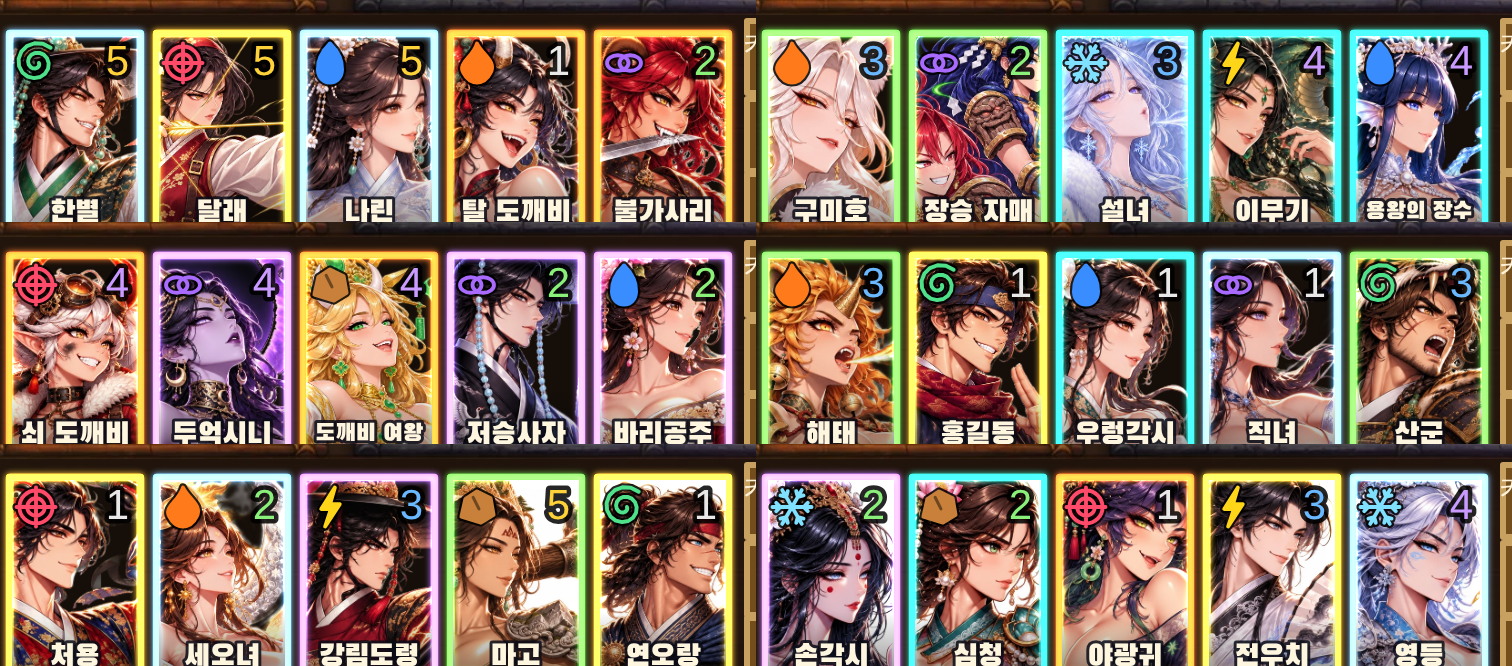
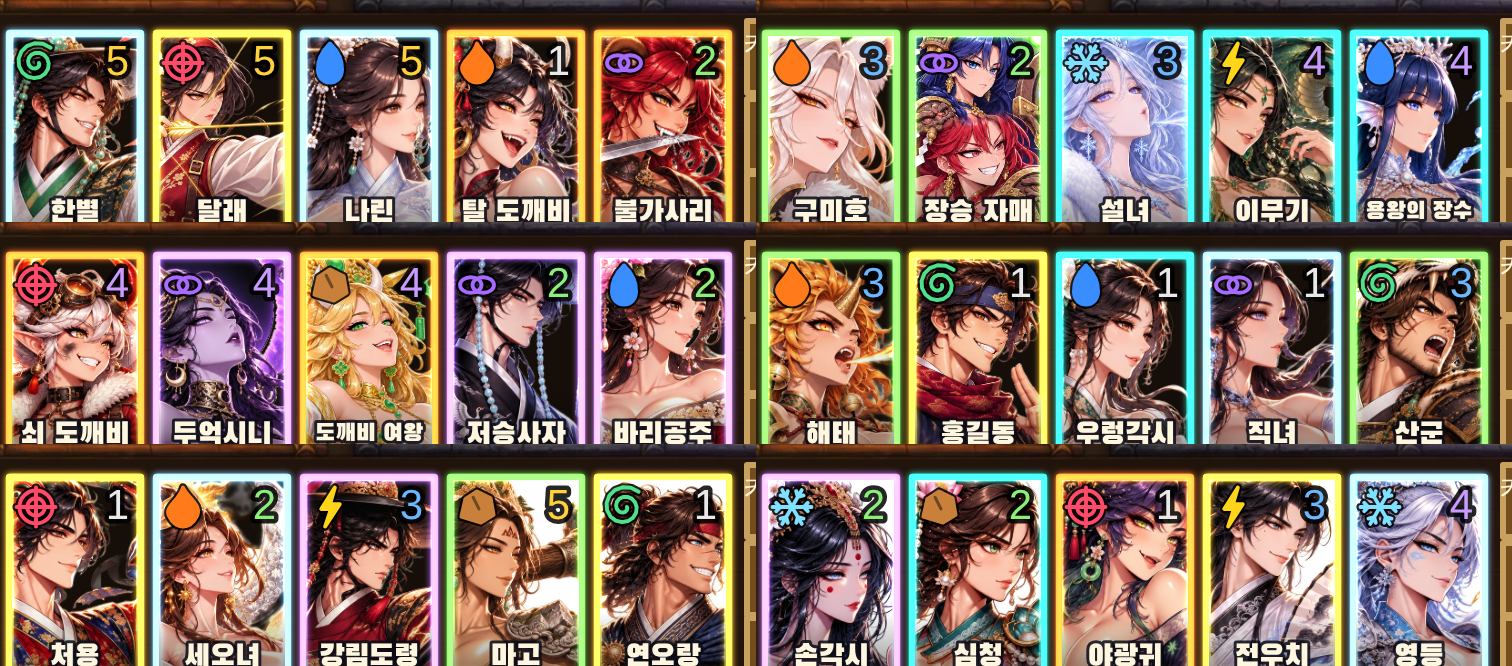
기획 29 보충(각성 탄 cNNa) · 새 7명 개별 각성 · 기획 26 21절 같은 속성 연계 · 장승 자매 카드 그림 · 확인 스크린샷
Claude-Session: https://claude.ai/code/session_01X3WCR5Skc58i6ujNZho15h

Changed region(s): [[0.5906, 0.03, 0.7149, 0.3303]]

diff --git a/game/geumeum/README.md b/game/geumeum/README.md
@@ -491,3 +491,6 @@
 - 얻는 곳(안): 마고 탑 40층 · 연오랑 세오녀 인연 5단계 · 손각시 도감 60종 · 심청 어려움 2-9 · 야광귀 섣달그믐 날 · 전우치 오락실 6판 · 영등 영등날.
 - 달밤 진법: 30명, 진영 6곳 모두 5명, 비용표 기획 28 3-3. **5명 효과**: 그 진영 캐릭터 공격·체력 +25%(효과 1.5배 대신) + 진판이 진영 색으로 물듦(저승은 되살림 +1, 산은 느림 7.5초). 특별 짝 3개 추가: 연오랑 세오녀(밤 시작 적 모두 표식) · 도술 맞수(홍길동·전우치 스킬 기운 25% 빨리) · 그믐밤 손님(야광귀·탈·쇠 도깨비, 처치 엽전 +1 밤당 3). 카드 얼굴 자르기 `JFACE` 7줄.
 - 확인 그림: `store/out/new7_shots.png`(기본·각성 공격), `store/out/new7_skills.png`(스킬), `store/out/jin_cards_all30.png`(카드 30장).
+- 보충(기획방 요청): 각성 모듈이 쏘는 자기 탄도 모양은 `fx/cNNa`(동작·피해는 그대로). 새 7명 개별 각성 ①(마고 돌덩이 셋·손각시 서리 꽃잎 부채꼴·야광귀 빛 구슬 비·영등 넓은 서리 바람 등, `AW28P`)과 ④ 끝 그림 7종(`aw28EndDraw`: 산 솟기·큰 파도·면사포·연꽃·신발 비·먹 번개 용·오색 깃발 바람).
+- 달밤 진법 21절: 같은 속성끼리만 연계 고리(가로·세로·대각). 연계 일격 8종(`JLINK`: 돌개바람·겹표식·물결·불바다·얼음꽃·연쇄 번개·포박·땅울림), 같은 속성 3명 무리 ×1.5·간격 −30%, 4명 ×2, 기본 ×1.3. 카드를 집으면 같은 속성 이웃 칸만 빛남. 진법 책 「연계」에 표. 장승 자매 카드는 전용 그림 `jcard6`.
+- 확인 그림: `store/out/fx29_types.png`(탄 종류별) · `fx29_hit.png`(맞을 때) · `new7_stand.png`(새 7명 평소·각성, 무기 끝 발사) · `new7_awake.png`(각성 끝·각성 탄) · `jin_card6_zoom.png` · `jin_link_same.png`.
